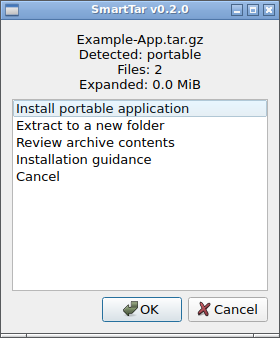
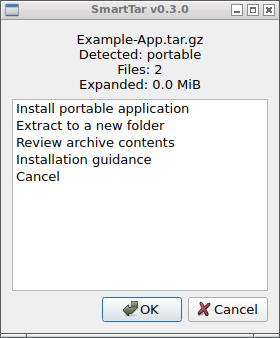
Document the v0.3.0 AppImage flow with actual dialog screenshots

Changed region(s): [[0.0, 0.0, 1.0, 0.0592], [0.0286, 0.2959, 0.9714, 0.355]]

diff --git a/README.md b/README.md
@@ -55,7 +55,7 @@ Large archives can take time to check before the first window appears. AppImage 
 
 ## Screenshots
 
-These screenshots show the archive-installation flow in v0.2.0. The AppImage option added in v0.3.0 uses the same native dialog style but is not pictured here.
+These screenshots show SmartTar v0.3.0 installing an archive and an AppImage. Both flows ask for confirmation before installation.
 
 ### Choose what to do
 
@@ -75,7 +75,21 @@ After installation, SmartTar confirms that the app has an entry in the applicati
 
 ![SmartTar confirming successful installation and the application-menu entry](docs/screenshots/03-install-complete.png)
 
-These are real SmartTar dialogs captured in an automated Ubuntu test session with an example app, not mockups. Colors and window borders depend on your desktop theme. The temporary destination shown is only for the test. See the [capture details](docs/screenshots/capture.json).
+### Install an AppImage
+
+Right-click the downloaded file, open it with SmartTar, and choose **Install AppImage**.
+
+![SmartTar offering to install an example AppImage or explain how installation works](docs/screenshots/04-appimage-menu.png)
+
+Review where the app will be saved and choose **Yes** if you trust the download. SmartTar copies the file and adds a menu shortcut without starting the app.
+
+![SmartTar asking for confirmation before copying an AppImage and adding its menu shortcut](docs/screenshots/05-appimage-confirmation.png)
+
+Open the new entry in your application menu when you are ready to use it. Your original download is still where you left it.
+
+![SmartTar confirming that the AppImage is installed and the original download is unchanged](docs/screenshots/06-appimage-complete.png)
+
+These are real SmartTar dialogs captured in an automated Ubuntu test session, not mockups. The example downloads are synthetic test files, so these images demonstrate the installer rather than a particular app's ability to run. Colors and window borders depend on your desktop theme. The temporary destination shown is only for the test. See the [capture details](docs/screenshots/capture.json).
 
 ## Installation
 
@@ -149,7 +163,7 @@ The automated tests on GitHub run on GitHub's computers, not on yours. They are 
 
 SmartTar does check each archive before installation and while unpacking it. This helps catch damaged files, unsafe paths, and accidental overwrites. These checks add some processing time for large downloads, but there is no background scanning.
 
-AppImages take a shorter route. SmartTar checks the file header and processor type, then copies the file once when you confirm. It calculates a file fingerprint during that same copy, without a separate full-file scan. It does not run the AppImage to inspect it or extract an icon. The menu entry uses a generic application icon.
+AppImages take a shorter route. SmartTar checks the file header and processor type, then copies the file once when you confirm. It checks for changes during that same copy, without a separate full-file scan. It does not run the AppImage to inspect it or extract an icon. The menu entry uses a generic application icon.
 
 See the [measurements and technical details](docs/TECHNICAL.md#performance-measurements) if you want the numbers.
 
